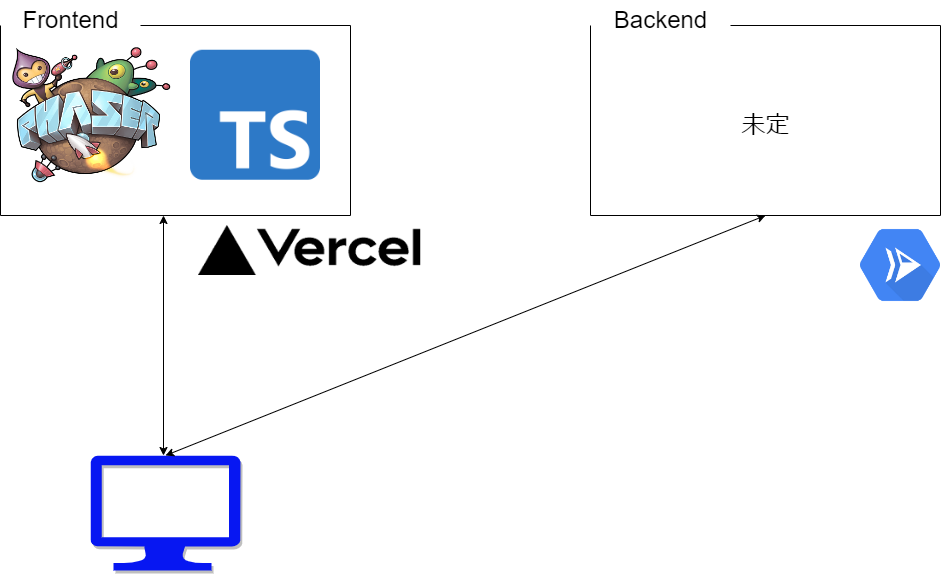
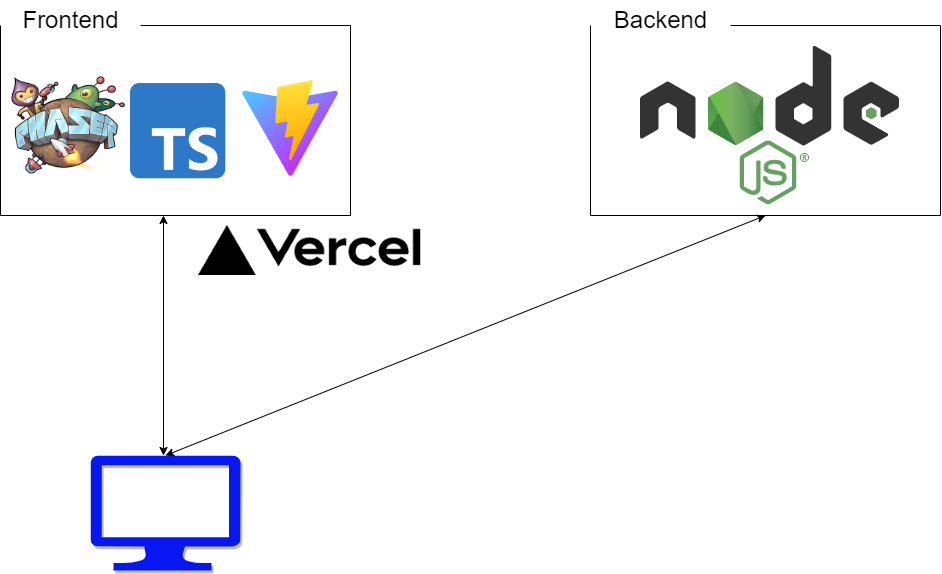
add picture

Changed region(s): [[0.0, 0.0592, 0.3694, 0.3258], [0.6773, 0.0889, 0.9544, 0.3554], [0.8928, 0.385, 1.0, 0.5331]]

diff --git a/README.md b/README.md
@@ -68,6 +68,14 @@
 
 
 ## 技術要件
+- フロントエンド
+    - TypeScript + Phaser + Vite
+- バックエンド
+    - Node.js(デプロイのため)
+- デプロイ環境
+    - Vercel(GitHub pagesかも)
+
+<img src="./img/tech.png">
 
 
 ## マイルストーン(スケジュール)
@@ -90,8 +98,6 @@ GitHub，Gitの扱い方，issue，Trelloの扱い方のチュートリアル．
 
 **12/23(最終)**  
 12/9時点の完成度によってTBD。他のゲームを作るか、拡張するか。
-
-
 
 
 ## 議事録関係
